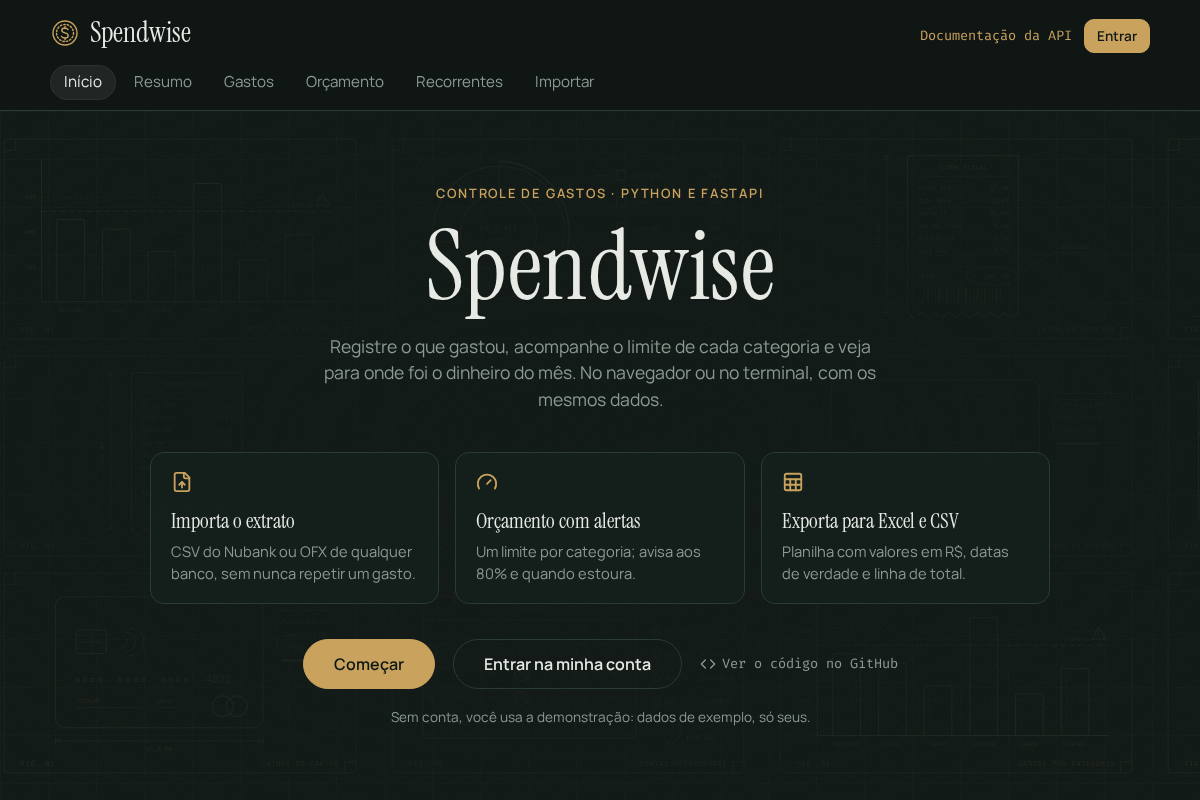
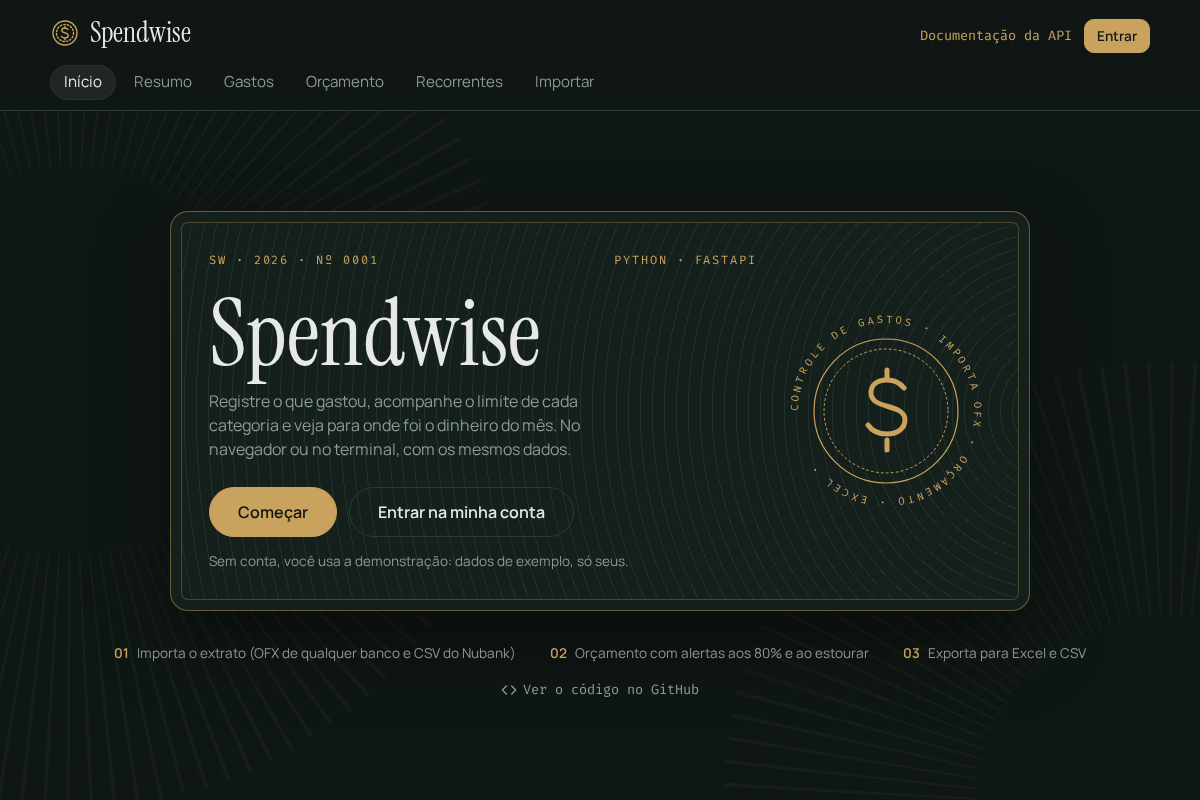
Refaz o print do lobby no README com a cédula

diff --git a/README.md b/README.md
@@ -171,7 +171,7 @@ Orçamento de mercado em set/2026: R$ 420,00 de R$ 500,00 (84%) - ATENÇÃO: sob
 
 ## Versão web
 
-![Lobby do Spendwise: nome em destaque, três vantagens e os botões Começar e Entrar na minha conta](docs/lobby.png)
+![Lobby do Spendwise em forma de cédula: número de série, nome em destaque, selo de moeda, os botões Começar e Entrar na minha conta e as três vantagens numeradas](docs/lobby.png)
 
 ![Aba Resumo do Spendwise na versão web: total do mês em destaque, gráfico por categoria e últimos gastos](docs/web.png)
 
